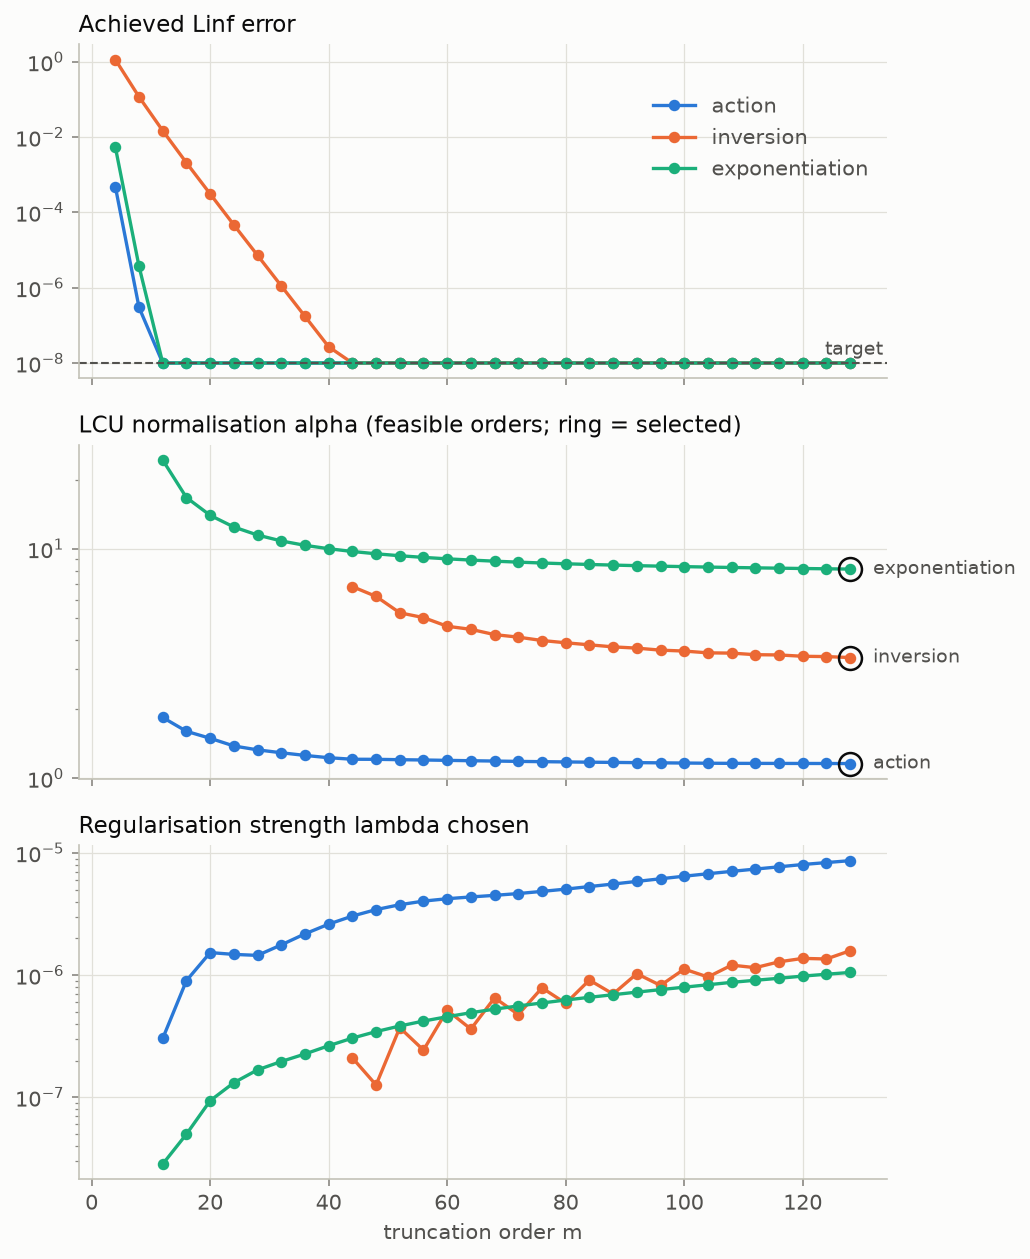
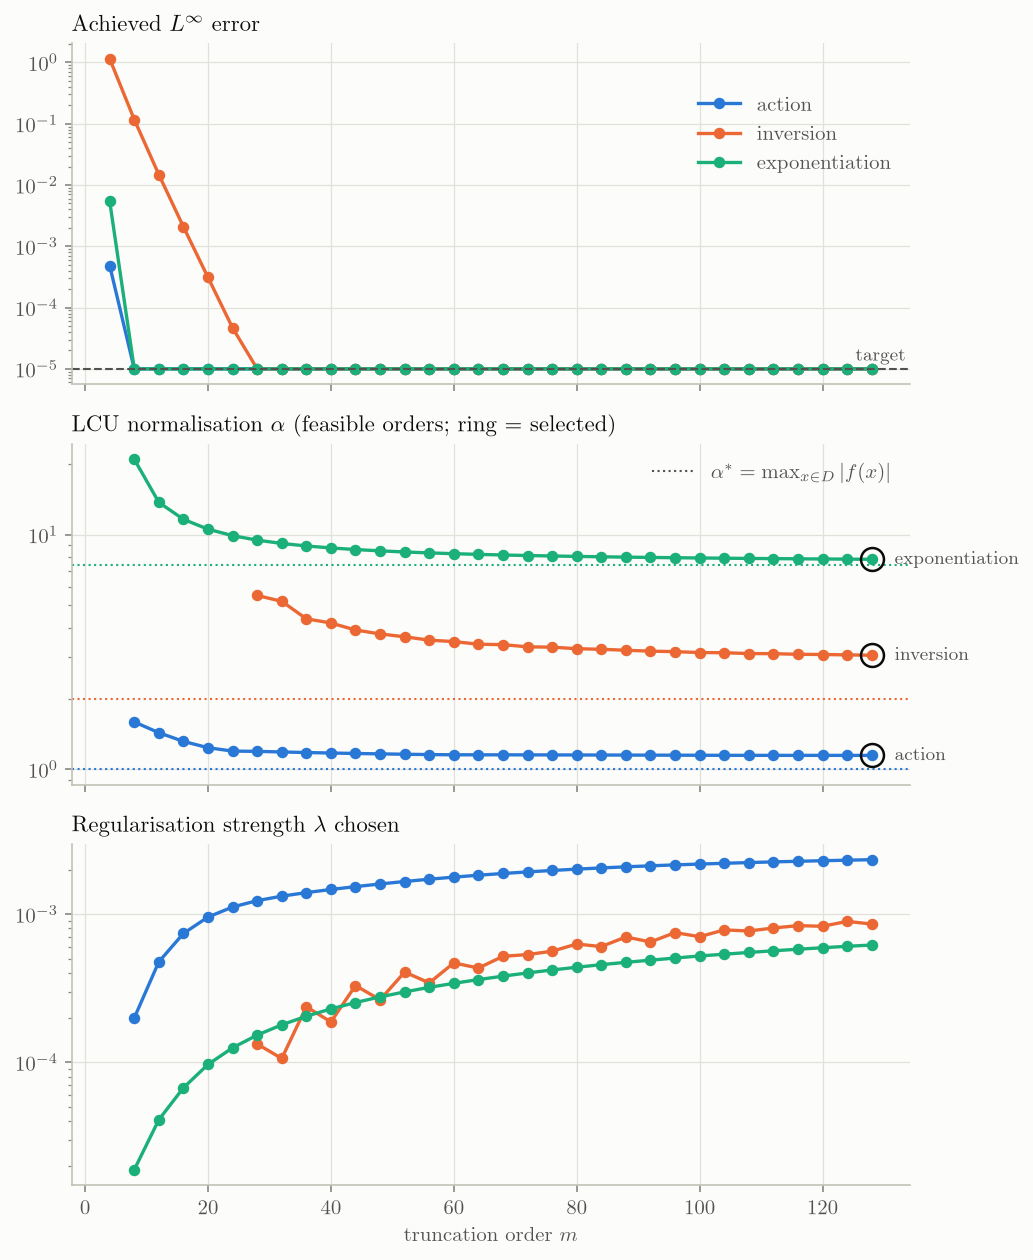
Typeset plots with LaTeX and mark the optimal alpha
Render plot text with LaTeX (falling back to Computer Modern mathtext when
no latex binary is installed) and draw alpha* = max |f| over the fitted
domain, the smallest achievable LCU normalisation, wherever alpha is
plotted. Ignore PNGs written by running the examples.

diff --git a/examples/plots/03_alpha_vs_r_w.py b/examples/plots/03_alpha_vs_r_w.py
@@ -4,8 +4,9 @@ Alpha over the Sobolev parameters r and w
 
 The H_r^w regulariser weights the k-th harmonic by (1 + r|k|)^(2w).  At
 fixed m and target, sweep 0 < r <= 1 and w > 0.5 and plot the resulting
-LCU normalisation alpha, as a heatmap and as slices at four values of r.
-Every fit here meets the target, so only alpha changes.  Needs matplotlib.
+LCU normalisation alpha, as a heatmap and as slices at four values of r,
+against the optimal alpha* = max |f| on the fitted domain (dotted).  Every
+fit here meets the target, so only alpha changes.  Needs matplotlib.
 
 Run with:
     python examples/plots/03_alpha_vs_r_w.py [OUTPUT_DIR]
@@ -23,42 +24,45 @@ R_SLICES = (0.1, 0.25, 0.5, 1.0)
 common = dict(sigma_min=0.1, sigma_max=2.0, target_error=1e-8, m=40)
 
 
-def alpha(r: float, w: float) -> float:
-    return solve_fe_coefficients("exponentiation", sobolev_r=r, sobolev_w=w, **common).alpha
+def solve(r: float, w: float):
+    return solve_fe_coefficients("exponentiation", sobolev_r=r, sobolev_w=w, **common)
 
 
-grid = np.array([[alpha(r, w) for r in R] for w in W])
+grid = np.array([[solve(r, w).alpha for r in R] for w in W])
 i, j = np.unravel_index(np.argmin(grid), grid.shape)
+alpha_star = _style.alpha_floor(solve(1.0, 1.0))
 
 _style.apply()
 fig, (ax_map, ax_cut) = plt.subplots(1, 2, figsize=(11, 4.5))
 
 mesh = ax_map.pcolormesh(R, W, grid, cmap=_style.SEQUENTIAL, shading="nearest")
-fig.colorbar(mesh, ax=ax_map, label="alpha")
+fig.colorbar(mesh, ax=ax_map, label=r"$\alpha$")
 ax_map.grid(False)
 ax_map.plot(R[j], W[i], marker="o", markersize=10, markerfacecolor="none",
             markeredgecolor=_style.INK, markeredgewidth=1.4, linestyle="none",
-            label=f"minimum ({R[j]:.2f}, {W[i]:.2f})")
+            label=f"minimum $({R[j]:.2f}, {W[i]:.2f})$")
 ax_map.plot(1.0, 1.0, marker="s", markersize=9, markerfacecolor="none",
             markeredgecolor=_style.INK, markeredgewidth=1.4, linestyle="none",
-            label="default (1, 1)")
+            label="default $(1, 1)$")
 ax_map.legend(loc="upper center", bbox_to_anchor=(0.5, -0.14), ncol=2)
-ax_map.set_xlabel("scale r")
-ax_map.set_ylabel("order w")
-ax_map.set_title("alpha  (exp, m = 40, target 1e-8)")
+ax_map.set_xlabel(r"scale $r$")
+ax_map.set_ylabel(r"order $w$")
+ax_map.set_title(r"$\alpha$  ($e^{H}$, $m = 40$, target $10^{-8}$)")
 
 for r, color in zip(R_SLICES, _style.ramp(len(R_SLICES))):
-    a = [alpha(r, w) for w in W]
-    ax_cut.plot(W, a, color=color, label=f"r = {r}")
-    _style.label_end(ax_cut, W, a, f"r = {r}")
-ax_cut.set_xlabel("order w")
-ax_cut.set_title("alpha versus w at fixed r")
+    a = [solve(r, w).alpha for w in W]
+    ax_cut.plot(W, a, color=color, label=f"$r = {r}$")
+    _style.label_end(ax_cut, W, a, f"$r = {r}$")
+_style.ref_line(ax_cut, alpha_star, _style.ALPHA_FLOOR_LABEL + f" $= {alpha_star:.3f}$")
+ax_cut.set_xlabel(r"order $w$")
+ax_cut.set_title(r"$\alpha$ versus $w$ at fixed $r$")
 ax_cut.legend(loc="upper left")
 
 fig.tight_layout()
 
 print(f"minimum alpha {grid[i, j]:.4f} at r={R[j]:.3f}, w={W[i]:.3f}")
-print(f"default (r=1, w=1) alpha {alpha(1.0, 1.0):.4f}")
+print(f"default (r=1, w=1) alpha {solve(1.0, 1.0).alpha:.4f}")
+print(f"alpha* = max|f| = {alpha_star:.4f}")
 print("\nalpha  (rows: w, columns: r)")
 print("   w \\ r " + " ".join(f"{r:>6.2f}" for r in R[::3]))
 for w, row in zip(W[::3], grid[::3]):

diff --git a/examples/plots/01_error_alpha_vs_m.py b/examples/plots/01_error_alpha_vs_m.py
@@ -6,7 +6,8 @@ Sweep m for each problem at the same target and plot, per m:
 
 - the achieved Linf error (falls until it reaches the target, then stays
   there, because lambda absorbs the remaining slack);
-- the LCU normalisation alpha of each feasible order;
+- the LCU normalisation alpha of each feasible order, against the optimal
+  alpha* = max |f| on the fitted domain (dotted), which no fit can beat;
 - the regularisation strength lambda chosen for it.
 
 The ringed point is the order picked by the default selection
@@ -17,11 +18,12 @@ Run with:
 """
 
 import matplotlib.pyplot as plt
+from matplotlib.lines import Line2D
 
 import _style
 from felcu import solve_fe_coefficients
 
-TARGET = 1e-8
+TARGET = 1e-5
 M_VALUES = range(4, 129, 4)
 PROBLEMS = [
     ("action", dict(sigma_min=-1.0, sigma_max=1.0)),
@@ -37,26 +39,31 @@ for problem, kwargs in PROBLEMS:
     color = _style.PROBLEM_COLORS[problem]
     cands = result.all_results
     feasible = [c for c in cands if c.converged and c.lambda_used > 0]
+    alpha_star = _style.alpha_floor(result)
 
     ax_err.semilogy([c.m for c in cands], [c.achieved_linf_error for c in cands],
                     marker="o", color=color, label=problem)
     ms, alphas = [c.m for c in feasible], [c.alpha for c in feasible]
+    _style.ref_line(ax_alpha, alpha_star, color=color)
     ax_alpha.semilogy(ms, alphas, marker="o", color=color)
     _style.label_end(ax_alpha, ms, alphas, problem, gap=11)
     ax_alpha.plot(result.m, result.alpha, marker="o", markersize=11,
                   markerfacecolor="none", markeredgecolor=_style.INK, markeredgewidth=1.2)
     ax_lam.semilogy(ms, [c.lambda_used for c in feasible], marker="o", color=color)
 
-    print(f"\n{problem}: selected m={result.m}, alpha={result.alpha:.4f}")
+    print(f"\n{problem}: selected m={result.m}, alpha={result.alpha:.4f}, "
+          f"alpha* = max|f| = {alpha_star:.4f}")
     print(f"  {'m':>4}  {'Linf':>9}  {'alpha':>9}  {'lambda':>9}")
     for c in cands:
         print(f"  {c.m:>4}  {c.achieved_linf_error:>9.2e}  {c.alpha:>9.4f}  {c.lambda_used:>9.2e}")
 
 _style.target_line(ax_err, TARGET)
-ax_err.set_title("Achieved Linf error")
+ax_err.set_title(r"Achieved $L^\infty$ error")
 ax_err.legend(loc="upper right", bbox_to_anchor=(1, 0.9))
-ax_alpha.set_title("LCU normalisation alpha (feasible orders; ring = selected)")
-ax_lam.set_title("Regularisation strength lambda chosen")
-ax_lam.set_xlabel("truncation order m")
+ax_alpha.set_title(r"LCU normalisation $\alpha$ (feasible orders; ring = selected)")
+ax_alpha.legend(handles=[Line2D([], [], color=_style.INK_2, linewidth=1, linestyle=":",
+                                label=_style.ALPHA_FLOOR_LABEL)], loc="upper right")
+ax_lam.set_title(r"Regularisation strength $\lambda$ chosen")
+ax_lam.set_xlabel(r"truncation order $m$")
 fig.tight_layout()
 _style.finish(fig, "01_error_alpha_vs_m")

diff --git a/examples/plots/_style.py b/examples/plots/_style.py
@@ -5,6 +5,7 @@ first argument (default: the current directory), and also shows it when an
 interactive matplotlib backend is available.
 """
 
+import shutil
 import sys
 from pathlib import Path
 
@@ -12,6 +13,12 @@ import matplotlib
 import matplotlib.pyplot as plt
 import numpy as np
 from matplotlib.colors import LinearSegmentedColormap
+
+from felcu import evaluate_target_function, fitted_domain_segments
+
+# Render text with LaTeX when it is installed; otherwise fall back to
+# matplotlib's built-in Computer Modern mathtext, which looks much the same.
+USETEX = shutil.which("latex") is not None
 
 # Surfaces and ink
 SURFACE = "#fcfcfb"
@@ -68,7 +75,26 @@ def apply() -> None:
         "legend.frameon": False,
         "legend.labelcolor": INK_2,
         "font.size": 10,
+        "text.usetex": USETEX,
+        "text.latex.preamble": r"\usepackage{amsmath}",
+        "font.family": "serif",
+        "font.serif": ["Computer Modern Roman", "CMU Serif", "DejaVu Serif"],
+        "mathtext.fontset": "cm",
+        "axes.formatter.use_mathtext": True,
     })
+
+
+def alpha_floor(result) -> float:
+    """max |f| over the fitted domain: the smallest LCU normalisation possible.
+
+    Every series satisfies |g(x)| <= alpha, so a fit with error eps needs
+    alpha >= max |f| - eps.
+    """
+    return max(float(np.max(np.abs(evaluate_target_function(xs, result))))
+               for xs in fitted_domain_segments(result))
+
+
+ALPHA_FLOOR_LABEL = r"$\alpha^\ast = \max_{x \in D} |f(x)|$"
 
 
 def label_end(ax, x, y, text: str, at: str = "end", gap: float = 5) -> None:
@@ -78,11 +104,19 @@ def label_end(ax, x, y, text: str, at: str = "end", gap: float = 5) -> None:
                 color=INK_2, va="center", ha=ha, fontsize=9)
 
 
+def ref_line(ax, y: float, text: str = "", color: str = INK_2, linestyle: str = ":",
+             side: str = "right") -> None:
+    """A thin horizontal reference line, optionally labelled at one end."""
+    ax.axhline(y, color=color, linewidth=1, linestyle=linestyle)
+    if text:
+        x, dx = (1, -2) if side == "right" else (0, 2)
+        ax.annotate(text, (x, y), xycoords=("axes fraction", "data"),
+                    xytext=(dx, 4), textcoords="offset points", ha=side,
+                    color=INK_2, fontsize=9)
+
+
 def target_line(ax, target: float) -> None:
-    ax.axhline(target, color=INK_2, linewidth=1, linestyle="--")
-    ax.annotate("target", (1, target), xycoords=("axes fraction", "data"),
-                xytext=(-2, 4), textcoords="offset points", ha="right",
-                color=INK_2, fontsize=9)
+    ref_line(ax, target, "target", linestyle="--")
 
 
 def finish(fig, name: str) -> None:

diff --git a/examples/plots/04_inversion_vs_kappa.py b/examples/plots/04_inversion_vs_kappa.py
@@ -4,7 +4,9 @@ Cost of inversion versus condition number
 
 For singular values in [1/kappa, 1], plot the shortest series that meets
 the target (selection='smallest_m') and its LCU normalisation alpha as the
-condition number kappa grows.  Needs matplotlib.
+condition number kappa grows.  The optimal alpha* = max |f| on the fitted
+domain (dotted) equals kappa here, so it is a line rather than a constant.
+Needs matplotlib.
 
 Run with:
     python examples/plots/04_inversion_vs_kappa.py [OUTPUT_DIR]
@@ -25,26 +27,29 @@ rows = []
 for kappa in KAPPAS:
     r = solve_fe_coefficients("inversion", sigma_min=1.0 / kappa, sigma_max=1.0,
                               target_error=TARGET, selection="smallest_m")
-    rows.append((kappa, r.m, r.alpha, r.converged))
+    rows.append((kappa, r.m, r.alpha, _style.alpha_floor(r), r.converged))
 
-kappa, m, alpha, conv = map(np.array, zip(*rows))
+kappa, m, alpha, alpha_star, conv = map(np.array, zip(*rows))
 ok = conv.astype(bool)
 
 _style.apply()
 fig, (ax_m, ax_alpha) = plt.subplots(1, 2, figsize=(10, 4))
 ax_m.loglog(kappa[ok], m[ok], marker="o", color=color)
-ax_m.set_title("Shortest feasible order m  (target 1e-4)")
-ax_alpha.loglog(kappa[ok], alpha[ok], marker="o", color=color)
-ax_alpha.set_title("LCU normalisation alpha")
+ax_m.set_title(r"Shortest feasible order $m$  (target $10^{-4}$)")
+ax_alpha.loglog(kappa, alpha_star, color=_style.INK_2, linewidth=1, linestyle=":",
+                label=_style.ALPHA_FLOOR_LABEL)
+ax_alpha.loglog(kappa[ok], alpha[ok], marker="o", color=color, label=r"$\alpha$")
+ax_alpha.legend(loc="upper left")
+ax_alpha.set_title(r"LCU normalisation $\alpha$")
 for ax in (ax_m, ax_alpha):
-    ax.set_xlabel("condition number kappa")
-    ax.set_xticks([2, 5, 10, 20, 50], labels=["2", "5", "10", "20", "50"])
+    ax.set_xlabel(r"condition number $\kappa$")
+    ax.set_xticks([2, 5, 10, 20, 50], labels=["$2$", "$5$", "$10$", "$20$", "$50$"])
     ax.xaxis.set_minor_formatter(NullFormatter())
 fig.tight_layout()
 
-print(f"{'kappa':>7}  {'m':>4}  {'alpha':>9}  converged")
+print(f"{'kappa':>7}  {'m':>4}  {'alpha':>9}  {'alpha*':>9}  converged")
 for row in rows:
-    print(f"{row[0]:>7.2f}  {row[1]:>4}  {row[2]:>9.3f}  {row[3]}")
+    print(f"{row[0]:>7.2f}  {row[1]:>4}  {row[2]:>9.3f}  {row[3]:>9.3f}  {row[4]}")
 if not ok.all():
     print("\n(non-converged points are left out of the plot: increase m_values to reach them)")
 

diff --git a/examples/plots/02_error_alpha_vs_lambda.py b/examples/plots/02_error_alpha_vs_lambda.py
@@ -4,8 +4,9 @@ The error-alpha trade-off controlled by lambda
 
 At fixed m, felcu chooses the largest lambda that still meets the target,
 so sweeping target_error traces out how error and alpha depend on lambda:
-more regularisation means a larger error but a smaller alpha.  Repeated
-for three orders m.  Needs matplotlib.
+more regularisation means a larger error but a smaller alpha, which
+approaches the optimal alpha* = max |f| on the fitted domain (dotted).
+Repeated for three orders m.  Needs matplotlib.
 
 Run with:
     python examples/plots/02_error_alpha_vs_lambda.py [OUTPUT_DIR]
@@ -32,19 +33,23 @@ for m, color in zip(M_ORDERS, _style.ramp(len(M_ORDERS))):
             rows.append((r.lambda_used, r.achieved_linf_error, r.alpha))
     lam, err, alpha = map(np.array, zip(*rows))
 
-    ax_err.loglog(lam, err, marker="o", color=color, label=f"m = {m}")
+    ax_err.loglog(lam, err, marker="o", color=color, label=f"$m = {m}$")
     ax_alpha.semilogx(lam, alpha, marker="o", color=color)
-    _style.label_end(ax_alpha, lam, alpha, f"m = {m}", at="start")
+    _style.label_end(ax_alpha, lam, alpha, f"$m = {m}$", at="start")
 
     print(f"\nm = {m}")
     print(f"  {'lambda':>9}  {'Linf':>9}  {'alpha':>9}")
     for row in rows:
         print(f"  {row[0]:>9.2e}  {row[1]:>9.2e}  {row[2]:>9.4f}")
 
+alpha_star = _style.alpha_floor(r)
+_style.ref_line(ax_alpha, alpha_star, _style.ALPHA_FLOOR_LABEL + f" $= {alpha_star:.3f}$", side="left")
+print(f"\nalpha* = max|f| = {alpha_star:.4f}")
+
 ax_alpha.set_xlim(left=ax_alpha.get_xlim()[0] / 10)  # room for the start labels
-ax_err.set_title("Achieved Linf error  (exp, eigenvalues in [0.1, 2])")
+ax_err.set_title(r"Achieved $L^\infty$ error  ($e^{H}$, eigenvalues in $[0.1, 2]$)")
 ax_err.legend(loc="upper left")
-ax_alpha.set_title("LCU normalisation alpha")
-ax_alpha.set_xlabel("regularisation strength lambda")
+ax_alpha.set_title(r"LCU normalisation $\alpha$")
+ax_alpha.set_xlabel(r"regularisation strength $\lambda$")
 fig.tight_layout()
 _style.finish(fig, "02_error_alpha_vs_lambda")

diff --git a/examples/plots/05_pointwise_error.py b/examples/plots/05_pointwise_error.py
@@ -45,20 +45,20 @@ for col, (problem, kwargs) in enumerate(CASES):
             ax.axvspan(left, right, color=_style.SHADE, linewidth=0)
 
     g = evaluate_fourier_series(x_full, r.a0, r.ak, r.bk)
-    ax_fit.plot(x_full, g, color=color, label="series g")
+    ax_fit.plot(x_full, g, color=color, label="series $g$")
     worst = 0.0
     for i, xs in enumerate(segments):
         f = evaluate_target_function(xs, r)
         err = np.abs(evaluate_fourier_series(xs, r.a0, r.ak, r.bk) - f)
         worst = max(worst, err.max())
-        ax_fit.plot(xs, f, color=_style.INK, linewidth=0.9, label="target f" if i == 0 else None)
+        ax_fit.plot(xs, f, color=_style.INK, linewidth=0.9, label="target $f$" if i == 0 else None)
         ax_err.semilogy(xs, err, color=color)
 
     _style.target_line(ax_err, TARGET)
-    ax_fit.set_title(f"{problem}  (m = {r.m}; shaded = not fitted)")
+    ax_fit.set_title(f"{problem}  ($m = {r.m}$; shaded = not fitted)")
     ax_fit.legend(loc="upper left")
-    ax_err.set_title("pointwise error |g - f| on the fitted domain")
-    ax_err.set_xlabel("scaled variable x")
+    ax_err.set_title(r"pointwise error $|g(x) - f(x)|$ on the fitted domain")
+    ax_err.set_xlabel(r"scaled variable $x$")
     print(f"{problem}: m={r.m}  domain={r.domain}  max |g - f| = {worst:.2e}  (target {TARGET:g})")
 
 fig.tight_layout()

diff --git a/docs/examples.md b/docs/examples.md
@@ -190,7 +190,10 @@ series that meets the target instead, and stops the sweep there.
 ## Plots
 
 These scripts sweep a parameter and plot how the error and the LCU
-normalisation \(\alpha\) respond.  They need matplotlib:
+normalisation \(\alpha\) respond.  Where \(\alpha\) is shown, a dotted line
+marks the optimal value \(\alpha^\ast = \max_{x \in D} |f(x)|\) over the fitted
+domain \(D\): every series satisfies \(|g(x)| \le \alpha\), so no fit can do
+better.  They need matplotlib:
 
 ```bash
 pip install -e ".[plots]"
@@ -199,7 +202,9 @@ python examples/plots/01_error_alpha_vs_m.py
 
 Each saves a PNG to the directory given as its first argument (default: the
 current directory), shows it when a display is available, and prints the
-numbers behind it as a table.
+numbers behind it as a table.  Text is typeset with LaTeX when a `latex`
+binary is installed, and with matplotlib's built-in Computer Modern
+mathtext otherwise.
 
 ### Error, alpha and lambda versus truncation order m
 
@@ -207,7 +212,8 @@ Sweep m for each problem at the same target and plot, per m:
 
 - the achieved Linf error (falls until it reaches the target, then stays
   there, because lambda absorbs the remaining slack);
-- the LCU normalisation alpha of each feasible order;
+- the LCU normalisation alpha of each feasible order, against the optimal
+  alpha* = max |f| on the fitted domain (dotted), which no fit can beat;
 - the regularisation strength lambda chosen for it.
 
 The ringed point is the order picked by the default selection
@@ -225,8 +231,9 @@ The ringed point is the order picked by the default selection
 
 At fixed m, felcu chooses the largest lambda that still meets the target,
 so sweeping target_error traces out how error and alpha depend on lambda:
-more regularisation means a larger error but a smaller alpha.  Repeated
-for three orders m.
+more regularisation means a larger error but a smaller alpha, which
+approaches the optimal alpha* = max |f| on the fitted domain (dotted).
+Repeated for three orders m.
 
 ![The error-alpha trade-off controlled by lambda](images/plots/02_error_alpha_vs_lambda.png)
 
@@ -240,8 +247,9 @@ for three orders m.
 
 The H_r^w regulariser weights the k-th harmonic by (1 + r|k|)^(2w).  At
 fixed m and target, sweep 0 < r <= 1 and w > 0.5 and plot the resulting
-LCU normalisation alpha, as a heatmap and as slices at four values of r.
-Every fit here meets the target, so only alpha changes.
+LCU normalisation alpha, as a heatmap and as slices at four values of r,
+against the optimal alpha* = max |f| on the fitted domain (dotted).  Every
+fit here meets the target, so only alpha changes.
 
 ![Alpha over the Sobolev parameters r and w](images/plots/03_alpha_vs_r_w.png)
 
@@ -255,7 +263,8 @@ Every fit here meets the target, so only alpha changes.
 
 For singular values in [1/kappa, 1], plot the shortest series that meets
 the target (selection='smallest_m') and its LCU normalisation alpha as the
-condition number kappa grows.
+condition number kappa grows.  The optimal alpha* = max |f| on the fitted
+domain (dotted) equals kappa here, so it is a line rather than a constant.
 
 ![Cost of inversion versus condition number](images/plots/04_inversion_vs_kappa.png)
 
